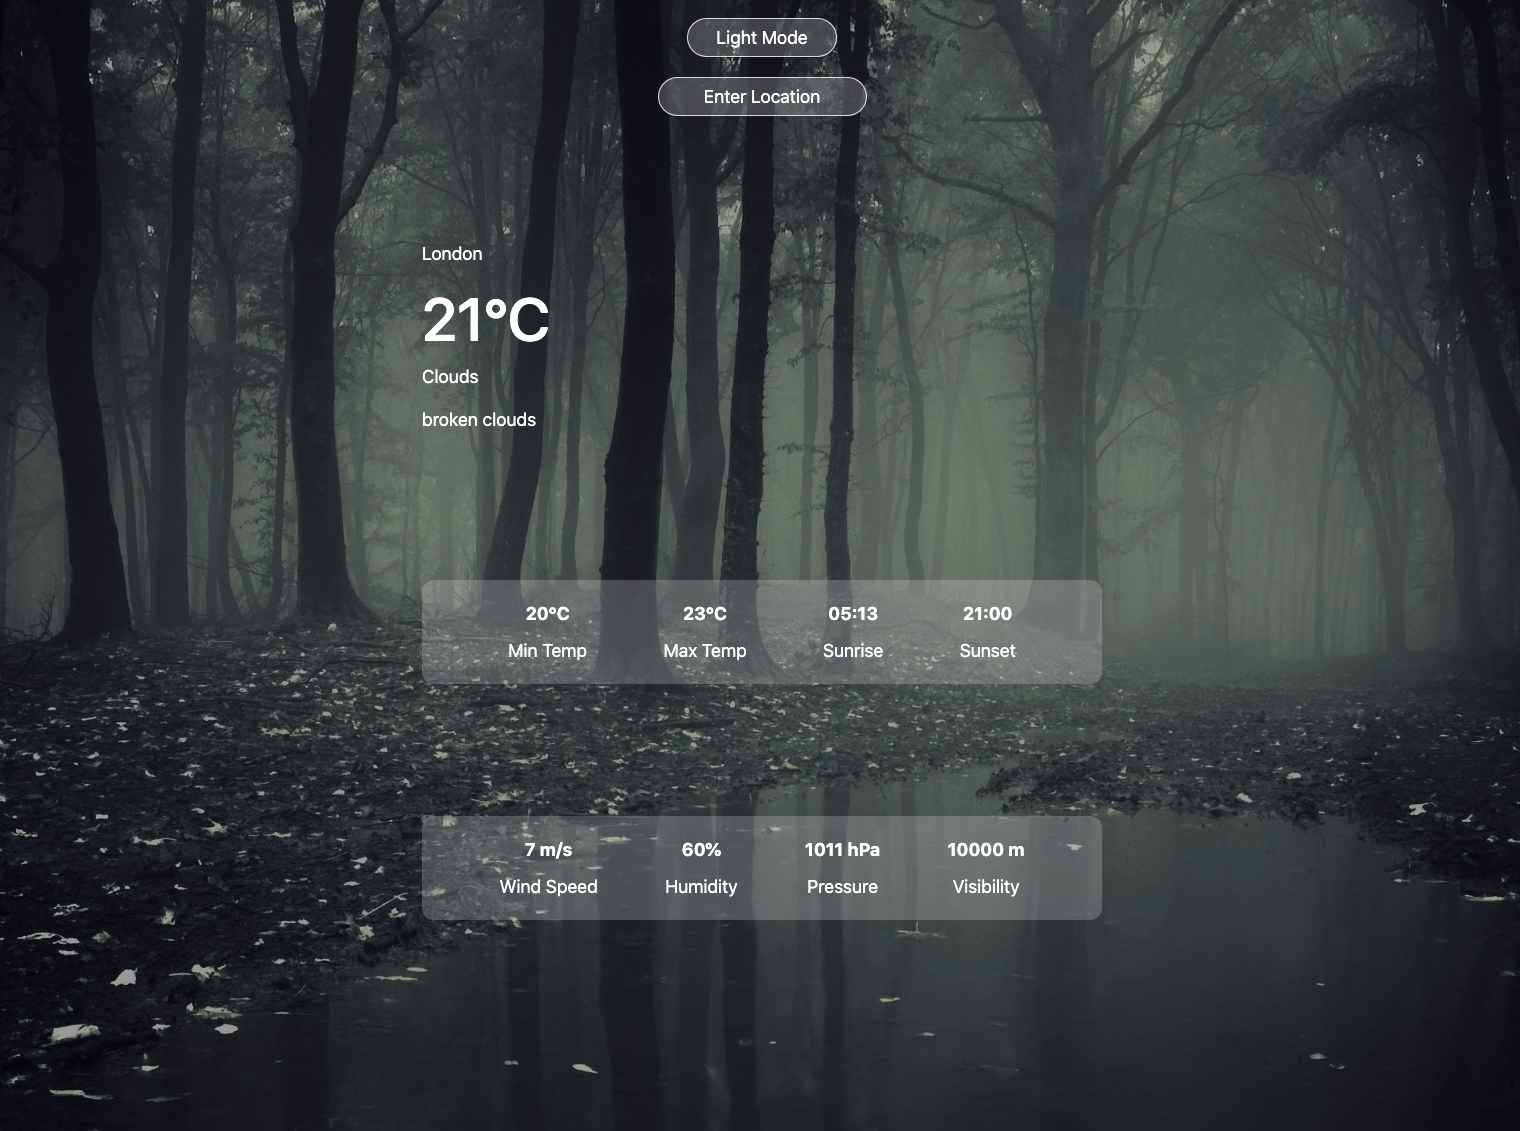
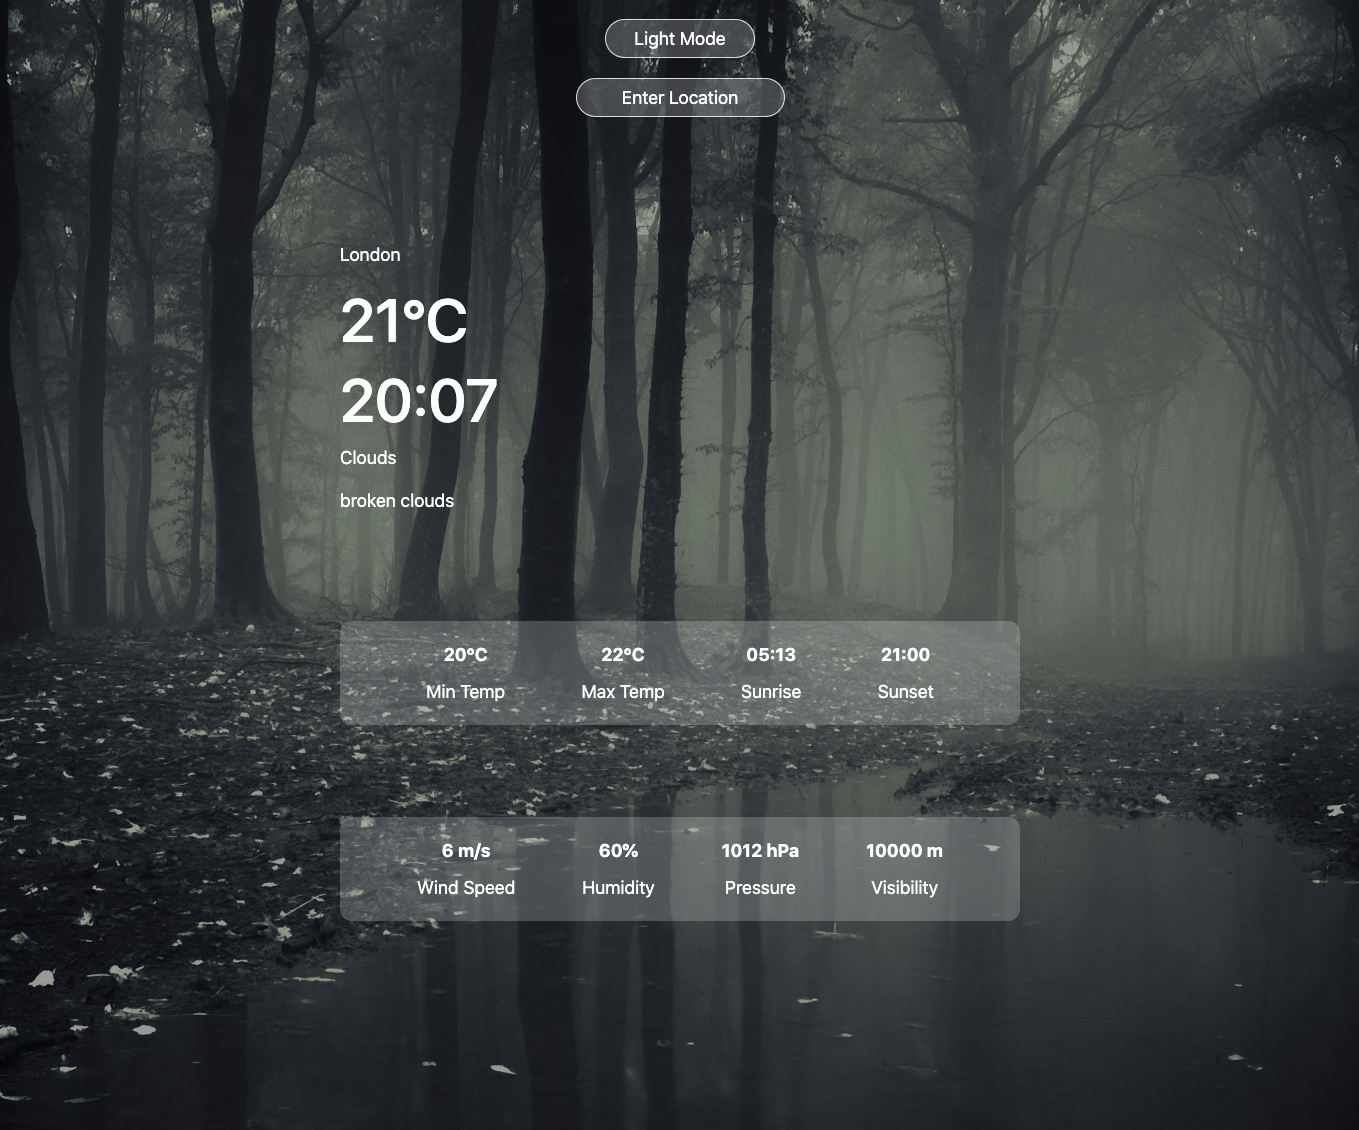
added a time at location and updated images on readme

diff --git a/app/controllers/home_controller.rb b/app/controllers/home_controller.rb
@@ -35,6 +35,7 @@ class HomeController < ApplicationController
     main(data)
     sunrise_sunset(data)
     minor(data)
+    time_at_location(data)
   end
 
   def name(data)
@@ -65,5 +66,10 @@ class HomeController < ApplicationController
   def minor(data)
     @visibility = data['visibility']
     @wind_speed = data['wind']['speed'].round
+  end
+
+  def time_at_location(data)
+    time_at_location = Time.now.utc + data['timezone'].seconds if data['timezone'].seconds
+    @time_at_location = time_at_location.to_s(:time)
   end
 end
